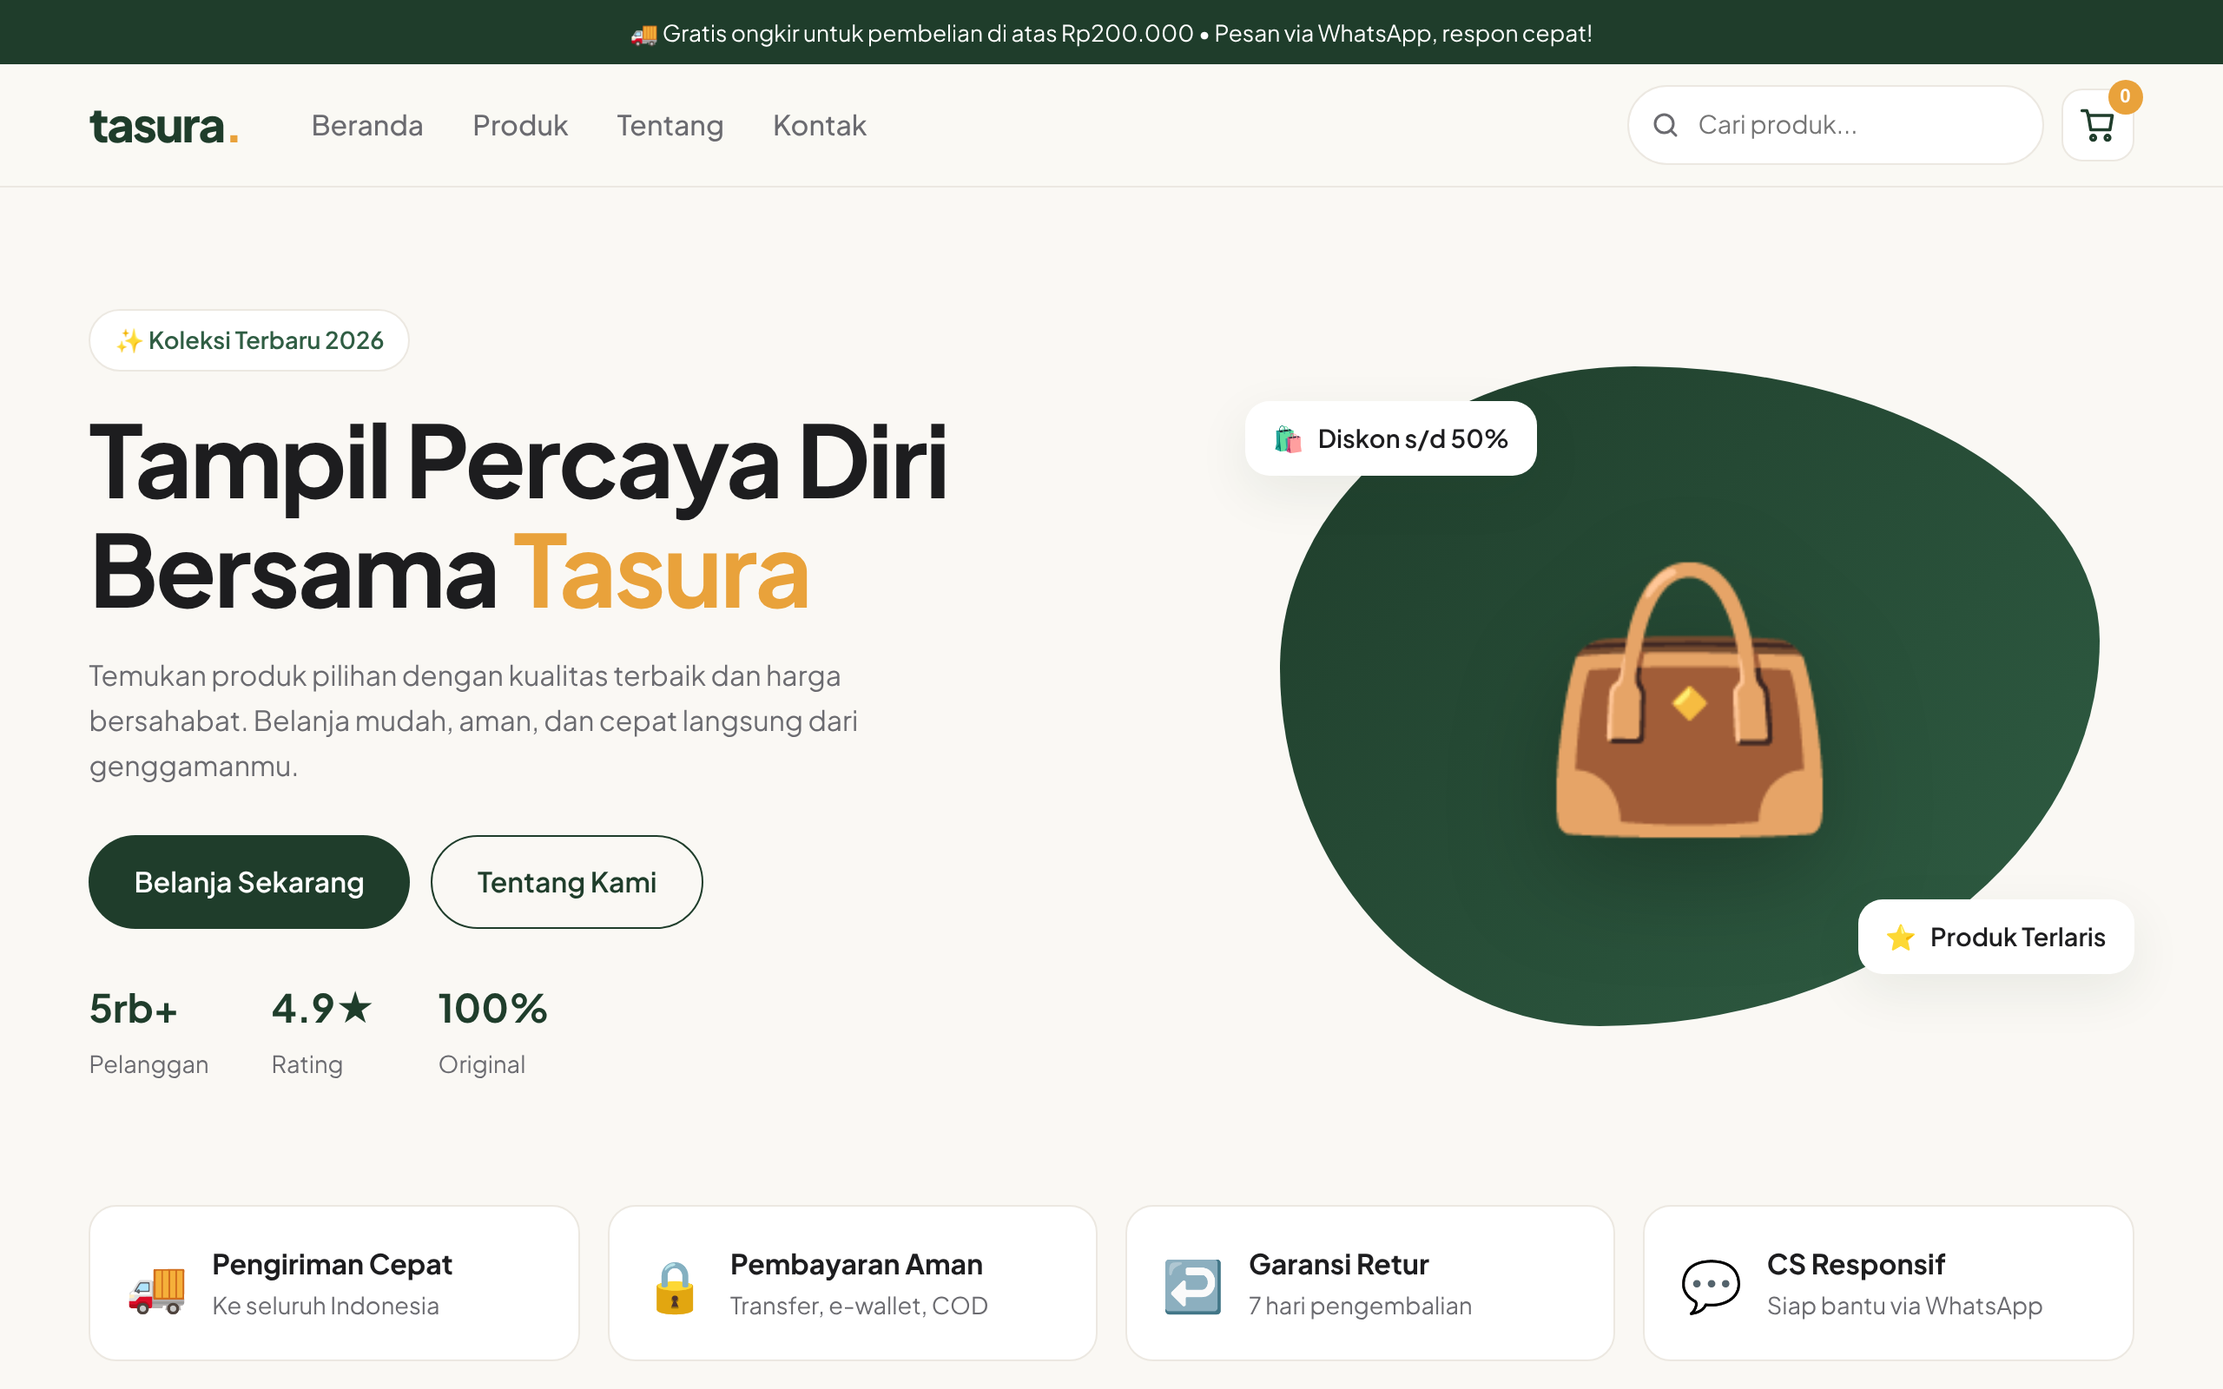
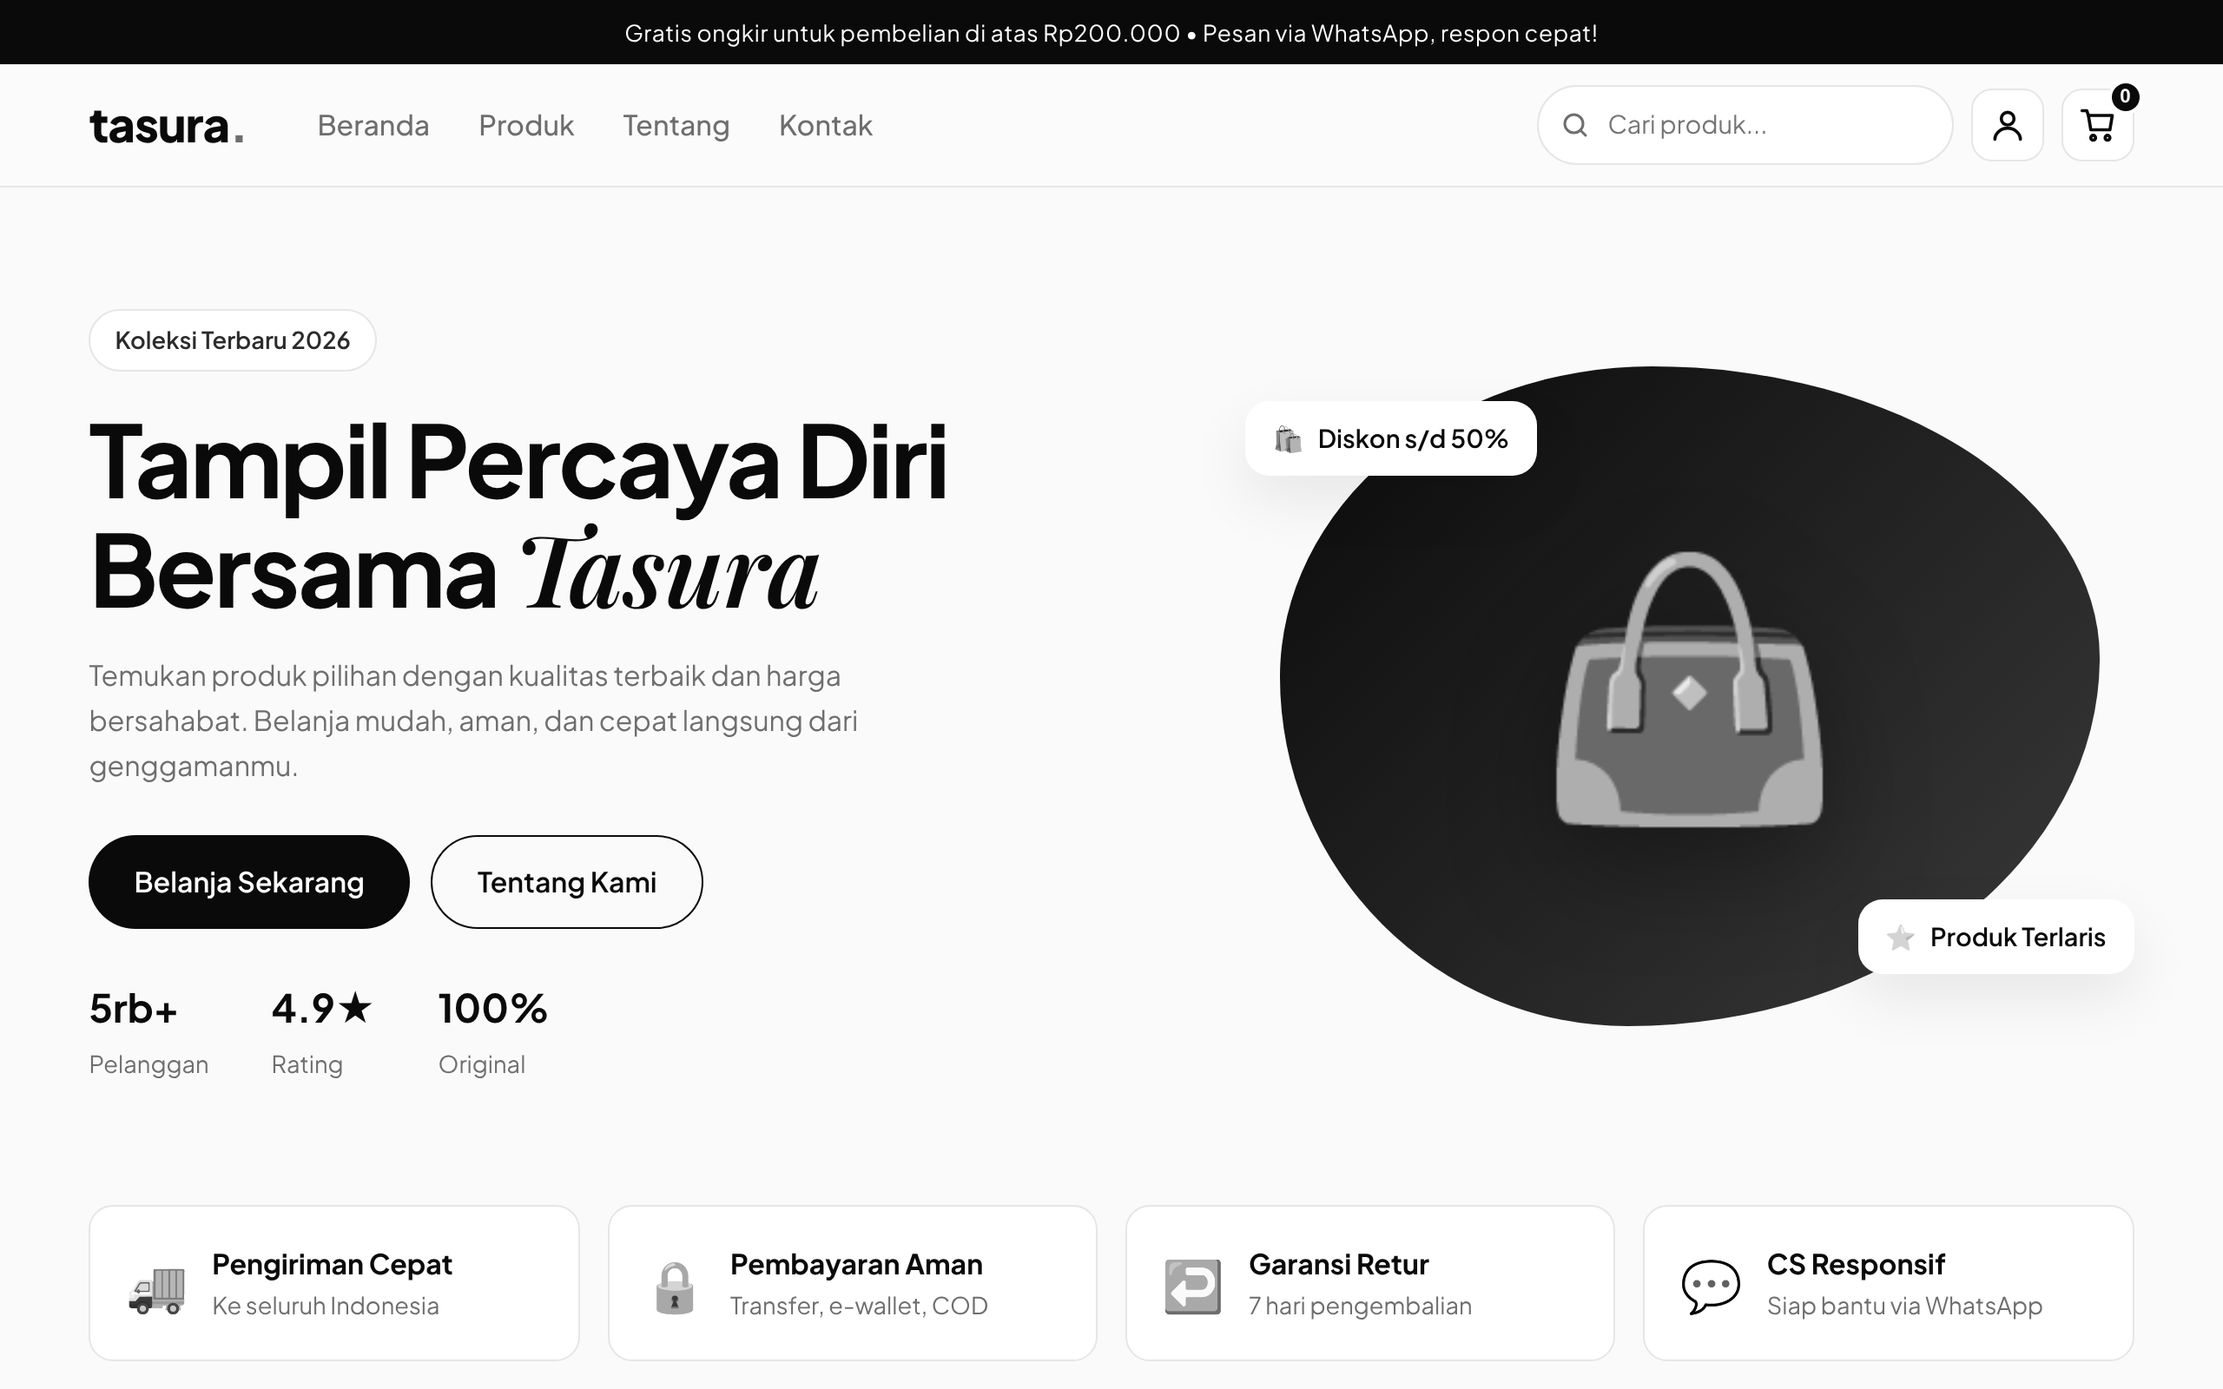
Switch to black-and-white theme
Monochrome palette, Playfair Display serif accents for headings,
grayscale placeholder images, black badges and buttons.

Claude-Session: https://claude.ai/code/session_01CW8Mdw83pMtiM6Mhh3g5pX

diff --git a/style.css b/style.css
@@ -1,4 +1,4 @@
-:root{--primary:#1f3d2b;--primary-2:#2f5d43;--accent:#e9a23b;--bg:#faf8f4;--card:#fff;--text:#1d1d1f;--muted:#6b6b70;--line:#ece8e1;--radius:16px;--shadow:0 10px 30px rgba(31,61,43,.08)}
+:root{--primary:#0a0a0a;--primary-2:#2b2b2b;--accent:#0a0a0a;--bg:#fafafa;--card:#fff;--text:#0a0a0a;--muted:#6e6e6e;--line:#e6e6e6;--radius:14px;--shadow:0 14px 34px rgba(0,0,0,.08);--serif:"Playfair Display",Georgia,serif}
 *{box-sizing:border-box;margin:0;padding:0}
 html{scroll-behavior:smooth}
 body{font-family:"Plus Jakarta Sans",system-ui,sans-serif;background:var(--bg);color:var(--text);line-height:1.6}
@@ -6,11 +6,11 @@ a{color:inherit;text-decoration:none}
 svg{width:22px;height:22px;fill:none;stroke:currentColor;stroke-width:2;stroke-linecap:round;stroke-linejoin:round}
 .container{width:min(1180px,92%);margin-inline:auto}
 .topbar{background:var(--primary);color:#fff;text-align:center;font-size:.82rem;padding:8px 12px}
-.header{position:sticky;top:0;z-index:50;background:rgba(250,248,244,.9);backdrop-filter:blur(10px);border-bottom:1px solid var(--line)}
+.header{position:sticky;top:0;z-index:50;background:rgba(250,250,250,.88);backdrop-filter:blur(10px);border-bottom:1px solid var(--line)}
 .header-inner{display:flex;align-items:center;gap:24px;height:70px}
 .logo{font-weight:800;font-size:1.7rem;letter-spacing:-1px;color:var(--primary)}
 .logo span{color:var(--accent)}
-.logo.light{color:#fff}
+.logo.light,.logo.light span{color:#fff}
 .nav{display:flex;gap:28px;margin-left:16px}
 .nav a{font-weight:500;color:var(--muted);transition:.2s}
 .nav a:hover{color:var(--primary)}
@@ -20,27 +20,29 @@ svg{width:22px;height:22px;fill:none;stroke:currentColor;stroke-width:2;stroke-l
 .search input:focus{border-color:var(--primary-2)}
 .search svg{position:absolute;left:13px;top:50%;transform:translateY(-50%);width:18px;color:var(--muted)}
 .icon-btn{position:relative;border:0;background:#fff;width:42px;height:42px;border-radius:12px;display:grid;place-items:center;cursor:pointer;color:var(--primary);border:1px solid var(--line);font-size:1rem}
-.badge{position:absolute;top:-6px;right:-6px;background:var(--accent);color:#fff;font-size:.7rem;font-weight:700;min-width:20px;height:20px;border-radius:99px;display:grid;place-items:center;padding:0 5px}
+.badge{position:absolute;top:-6px;right:-6px;background:var(--primary);border:2px solid #fff;color:#fff;font-size:.7rem;font-weight:700;min-width:20px;height:20px;border-radius:99px;display:grid;place-items:center;padding:0 5px}
 .menu-btn{display:none}
 .btn{display:inline-flex;align-items:center;justify-content:center;gap:8px;padding:13px 26px;border-radius:999px;font-weight:600;border:0;cursor:pointer;font:inherit;font-weight:600;transition:.2s}
 .btn-primary{background:var(--primary);color:#fff}
 .btn-primary:hover{background:var(--primary-2);transform:translateY(-2px)}
 .btn-ghost{border:1.5px solid var(--primary);color:var(--primary);background:transparent}
 .btn-light{background:#fff;color:var(--primary)}
-.btn-wa{background:#25d366;color:#fff}
+.btn-wa{background:var(--primary);color:#fff}
+.btn-wa:hover,.btn-light:hover{opacity:.85}
+.btn-ghost:hover{background:var(--primary);color:#fff}
 .full{width:100%}
 .hero{padding:70px 0 40px}
 .hero-inner{display:grid;grid-template-columns:1.1fr .9fr;align-items:center;gap:40px}
 .pill{display:inline-block;background:#fff;border:1px solid var(--line);padding:6px 14px;border-radius:99px;font-size:.85rem;font-weight:600;color:var(--primary-2)}
 .hero h1{font-size:clamp(2.2rem,5vw,3.6rem);line-height:1.1;letter-spacing:-1.5px;margin:18px 0}
-.hero h1 em{font-style:normal;color:var(--accent)}
+.hero h1 em{font-family:var(--serif);font-style:italic;font-weight:600;letter-spacing:0}
 .hero p{color:var(--muted);max-width:480px}
 .hero-cta{display:flex;gap:12px;margin:28px 0;flex-wrap:wrap}
 .stats{display:flex;gap:36px}
 .stats b{display:block;font-size:1.4rem;color:var(--primary)}
 .stats span{font-size:.85rem;color:var(--muted)}
 .hero-visual{position:relative;height:420px;display:grid;place-items:center}
-.blob{position:absolute;inset:20px;background:linear-gradient(135deg,var(--primary),var(--primary-2));border-radius:42% 58% 63% 37%/45% 40% 60% 55%;animation:morph 10s ease-in-out infinite}
+.blob{position:absolute;inset:20px;background:linear-gradient(135deg,#0a0a0a,#3a3a3a);border-radius:42% 58% 63% 37%/45% 40% 60% 55%;animation:morph 10s ease-in-out infinite}
 @keyframes morph{50%{border-radius:58% 42% 37% 63%/55% 60% 40% 45%}}
 .hero-emoji{position:relative;font-size:9rem;filter:drop-shadow(0 20px 30px rgba(0,0,0,.25));animation:float 4s ease-in-out infinite}
 @keyframes float{50%{transform:translateY(-14px)}}
@@ -60,9 +62,9 @@ h2{font-size:2rem;letter-spacing:-.5px}
 .grid{display:grid;grid-template-columns:repeat(auto-fill,minmax(230px,1fr));gap:22px}
 .card{background:var(--card);border-radius:var(--radius);overflow:hidden;border:1px solid var(--line);transition:.25s;display:flex;flex-direction:column}
 .card:hover{transform:translateY(-6px);box-shadow:var(--shadow)}
-.thumb{position:relative;aspect-ratio:1;background:linear-gradient(135deg,#f1ede4,#e6efe9);display:grid;place-items:center;font-size:5rem;cursor:pointer;overflow:hidden}
+.thumb{position:relative;aspect-ratio:1;background:linear-gradient(135deg,#f6f6f6,#ebebeb);display:grid;place-items:center;font-size:5rem;cursor:pointer;overflow:hidden}
 .thumb img{width:100%;height:100%;object-fit:cover}
-.disc{position:absolute;top:12px;left:12px;background:#e5484d;color:#fff;font-size:.75rem;font-weight:700;padding:4px 10px;border-radius:99px}
+.disc{position:absolute;top:12px;left:12px;background:var(--primary);color:#fff;font-size:.75rem;font-weight:700;padding:4px 10px;border-radius:99px}
 .card-body{padding:16px;display:flex;flex-direction:column;gap:6px;flex:1}
 .cat{font-size:.75rem;color:var(--primary-2);font-weight:600;text-transform:uppercase;letter-spacing:.5px}
 .card h3{font-size:1rem;line-height:1.35;cursor:pointer}
@@ -72,11 +74,11 @@ h2{font-size:2rem;letter-spacing:-.5px}
 .price s{font-size:.8rem;color:var(--muted)}
 .add{margin-top:10px;padding:10px;border-radius:12px;font-size:.9rem}
 .empty{text-align:center;padding:40px;color:var(--muted)}
-.promo{margin:80px 0;background:linear-gradient(120deg,var(--primary),var(--primary-2));color:#fff;border-radius:24px;padding:40px;display:flex;justify-content:space-between;align-items:center;gap:20px;flex-wrap:wrap}
+.promo{margin:80px 0;background:linear-gradient(120deg,#0a0a0a,#2e2e2e);color:#fff;border-radius:24px;padding:40px;display:flex;justify-content:space-between;align-items:center;gap:20px;flex-wrap:wrap}
 .promo h3{font-size:1.6rem}
-.promo b{color:var(--accent)}
+.promo b{color:#fff;border-bottom:2px solid #fff}
 .about{display:grid;grid-template-columns:1fr 1.2fr;gap:50px;align-items:center;margin-bottom:80px}
-.about-img{aspect-ratio:4/3;border-radius:24px;background:linear-gradient(135deg,#f1ede4,#dfe9e2);display:grid;place-items:center;font-size:8rem}
+.about-img{aspect-ratio:4/3;border-radius:24px;background:linear-gradient(135deg,#f6f6f6,#e6e6e6);display:grid;place-items:center;font-size:8rem}
 .about p{color:var(--muted);margin:14px 0}
 .checks{list-style:none;display:grid;gap:8px}
 .checks li::before{content:"✓";color:#fff;background:var(--primary-2);border-radius:50%;width:22px;height:22px;display:inline-grid;place-items:center;font-size:.75rem;margin-right:10px}
@@ -86,11 +88,11 @@ h2{font-size:2rem;letter-spacing:-.5px}
 .testi{background:#fff;border:1px solid var(--line);border-radius:var(--radius);padding:24px}
 .testi p{font-style:italic;margin-bottom:12px}
 .testi b{color:var(--primary-2);font-size:.9rem}
-.footer{background:var(--primary);color:#d8e3dc;padding:56px 0 0}
+.footer{background:var(--primary);color:#a8a8a8;padding:56px 0 0}
 .footer-inner{display:grid;grid-template-columns:2fr 1fr 1fr;gap:30px}
 .footer h4{color:#fff;margin-bottom:10px}
 .footer-inner a:not(.logo){display:block;margin-bottom:6px;font-size:.92rem}
-.footer-inner a:hover{color:var(--accent)}
+.footer-inner a:hover{color:#fff}
 .copy{text-align:center;border-top:1px solid rgba(255,255,255,.12);margin-top:40px;padding:18px;font-size:.85rem}
 .overlay{position:fixed;inset:0;background:rgba(0,0,0,.4);opacity:0;pointer-events:none;transition:.3s;z-index:90}
 .overlay.show{opacity:1;pointer-events:auto}
@@ -99,14 +101,14 @@ h2{font-size:2rem;letter-spacing:-.5px}
 .drawer-head{display:flex;justify-content:space-between;align-items:center;padding:20px;border-bottom:1px solid var(--line)}
 .cart-items{flex:1;overflow:auto;padding:12px 20px}
 .ci{display:flex;gap:12px;padding:12px 0;border-bottom:1px solid var(--line);align-items:center}
-.ci-thumb{width:64px;height:64px;border-radius:12px;background:#f1ede4;display:grid;place-items:center;font-size:2rem;flex-shrink:0;overflow:hidden}
+.ci-thumb{width:64px;height:64px;border-radius:12px;background:#f3f3f3;display:grid;place-items:center;font-size:2rem;flex-shrink:0;overflow:hidden}
 .ci-thumb img{width:100%;height:100%;object-fit:cover}
 .ci-info{flex:1}
 .ci-info h4{font-size:.9rem}
 .ci-info b{color:var(--primary);font-size:.9rem}
 .qty{display:flex;align-items:center;gap:8px;margin-top:4px}
 .qty button{width:26px;height:26px;border-radius:8px;border:1px solid var(--line);background:#fff;cursor:pointer}
-.remove{border:0;background:none;color:#e5484d;cursor:pointer;font-size:.8rem}
+.remove{border:0;background:none;color:var(--muted);text-decoration:underline;cursor:pointer;font-size:.8rem}
 .drawer-foot{padding:20px;border-top:1px solid var(--line);display:grid;gap:14px}
 .row{display:flex;justify-content:space-between;align-items:center}
 .cart-empty{text-align:center;padding:60px 0;color:var(--muted)}
@@ -150,7 +152,7 @@ h2{font-size:2rem;letter-spacing:-.5px}
 .account-btn{overflow:hidden;padding:0}
 .account-btn img{width:100%;height:100%;object-fit:cover}
 .account-btn .initial{width:100%;height:100%;display:grid;place-items:center;background:var(--primary);color:#fff;font-weight:700}
-.tabs{display:flex;background:#f3f0ea;border-radius:12px;padding:4px}
+.tabs{display:flex;background:#f0f0f0;border-radius:12px;padding:4px}
 .tabs button{flex:1;border:0;background:none;padding:9px;border-radius:9px;font:inherit;font-weight:600;color:var(--muted);cursor:pointer}
 .tabs button.active{background:#fff;color:var(--primary);box-shadow:0 2px 6px rgba(0,0,0,.06)}
 .form-grid{display:grid;gap:12px}
@@ -167,9 +169,9 @@ h2{font-size:2rem;letter-spacing:-.5px}
 .muted{color:var(--muted);font-size:.85rem}
 .msg{font-size:.85rem;padding:10px 12px;border-radius:10px}
 .msg.error{background:#fdecec;color:#b42318}
-.msg.success{background:#e8f5ec;color:#1f6b3a}
-.msg.info{background:#fff6e5;color:#8a5a00}
-.hint{font-size:.85rem;background:#f3f0ea;padding:10px 12px;border-radius:10px}
+.msg.success{background:#f0f0f0;color:#0a0a0a;border-left:3px solid #0a0a0a}
+.msg.info{background:#f0f0f0;color:#333}
+.hint{font-size:.85rem;background:#f0f0f0;padding:10px 12px;border-radius:10px}
 .hint a{color:var(--primary-2);font-weight:700}
 .hint[hidden]{display:none}
 .orders{display:grid;gap:12px;max-height:52vh;overflow:auto}
@@ -177,7 +179,22 @@ h2{font-size:2rem;letter-spacing:-.5px}
 .order{border:1px solid var(--line);border-radius:14px;padding:14px;display:grid;gap:6px}
 .order ul{list-style:none;font-size:.88rem;border-top:1px dashed var(--line);border-bottom:1px dashed var(--line);padding:8px 0}
 .order li{display:flex;justify-content:space-between}
-.status{font-size:.72rem;font-weight:700;padding:4px 10px;border-radius:99px;background:#fff6e5;color:#8a5a00}
-.s-diproses{background:#e8f0fe;color:#1a56db}.s-dikirim{background:#efe8fd;color:#6b2bd9}
-.s-selesai{background:#e8f5ec;color:#1f6b3a}.s-dibatalkan{background:#fdecec;color:#b42318}
+.status{font-size:.72rem;font-weight:700;padding:4px 10px;border-radius:99px;background:#f0f0f0;color:#333}
+.s-diproses{background:#dcdcdc;color:#0a0a0a}.s-dikirim{background:#444;color:#fff}
+.s-selesai{background:#0a0a0a;color:#fff}.s-dibatalkan{background:#fff;color:#888;border:1px solid #ccc;text-decoration:line-through}
 .modal-box>.full{width:auto}
+
+/* ====== Tema hitam putih ====== */
+h2,.promo h3{font-family:var(--serif);font-weight:600;letter-spacing:-.3px}
+.logo{letter-spacing:-.5px}
+.logo span{color:var(--muted)}
+.topbar{letter-spacing:.3px}
+.hero-emoji,.about-img,.feature span,.hero-card,.cart-empty,
+.thumb:not(:has(img)),.ci-thumb:not(:has(img)){filter:grayscale(1)}
+.hero-emoji{filter:grayscale(1) drop-shadow(0 20px 30px rgba(0,0,0,.35))}
+.card{border-color:#ededed}
+.card:hover{border-color:#d0d0d0}
+.chip{border-color:#dcdcdc}
+.price b{color:var(--primary)}
+::selection{background:#0a0a0a;color:#fff}
+.pill,.meta{filter:grayscale(1)}

diff --git a/index.html b/index.html
@@ -6,12 +6,13 @@
   <title>Tasura — Belanja Mudah, Kualitas Terbaik</title>
   <meta name="description" content="Tasura - toko online terpercaya. Produk berkualitas, harga bersahabat, pesan langsung via WhatsApp." />
   <link rel="preconnect" href="https://fonts.googleapis.com" />
-  <link href="https://fonts.googleapis.com/css2?family=Plus+Jakarta+Sans:wght@400;500;600;700;800&display=swap" rel="stylesheet" />
+  <link href="https://fonts.googleapis.com/css2?family=Playfair+Display:ital,wght@0,600;1,600&family=Plus+Jakarta+Sans:wght@400;500;600;700;800&display=swap" rel="stylesheet" />
+  <meta name="theme-color" content="#0a0a0a" />
   <link rel="stylesheet" href="style.css" />
 </head>
 <body>
   <!-- Top bar -->
-  <div class="topbar">🚚 Gratis ongkir untuk pembelian di atas Rp200.000 • Pesan via WhatsApp, respon cepat!</div>
+  <div class="topbar">Gratis ongkir untuk pembelian di atas Rp200.000 • Pesan via WhatsApp, respon cepat!</div>
 
   <!-- Header -->
   <header class="header">
@@ -44,7 +45,7 @@
   <section class="hero" id="beranda">
     <div class="container hero-inner">
       <div class="hero-text">
-        <span class="pill">✨ Koleksi Terbaru 2026</span>
+        <span class="pill">Koleksi Terbaru 2026</span>
         <h1>Tampil Percaya Diri<br/>Bersama <em>Tasura</em></h1>
         <p>Temukan produk pilihan dengan kualitas terbaik dan harga bersahabat. Belanja mudah, aman, dan cepat langsung dari genggamanmu.</p>
         <div class="hero-cta">

diff --git a/app.js b/app.js
@@ -26,7 +26,7 @@ function renderProducts() {
       <div class="card-body">
         <span class="cat">${p.kategori}</span>
         <h3 data-detail="${p.id}">${p.nama}</h3>
-        <span class="meta">⭐ ${p.rating} • ${p.terjual} terjual</span>
+        <span class="meta">★ ${p.rating} • ${p.terjual} terjual</span>
         <div class="price"><b>${rupiah(p.harga)}</b>${p.hargaCoret ? `<s>${rupiah(p.hargaCoret)}</s>` : ""}</div>
         <button class="btn btn-primary add" data-add="${p.id}">+ Keranjang</button>
       </div>
@@ -41,7 +41,7 @@ function showDetail(id) {
       <button class="icon-btn close" data-close>✕</button>
       <span class="cat">${p.kategori}</span>
       <h2 style="font-size:1.5rem">${p.nama}</h2>
-      <span class="meta">⭐ ${p.rating} • ${p.terjual} terjual</span>
+      <span class="meta">★ ${p.rating} • ${p.terjual} terjual</span>
       <div class="price"><b style="font-size:1.5rem">${rupiah(p.harga)}</b>${p.hargaCoret ? `<s>${rupiah(p.hargaCoret)}</s>` : ""}</div>
       <p>${p.deskripsi}</p>
       <button class="btn btn-primary" data-add="${p.id}">+ Tambah ke Keranjang</button>
